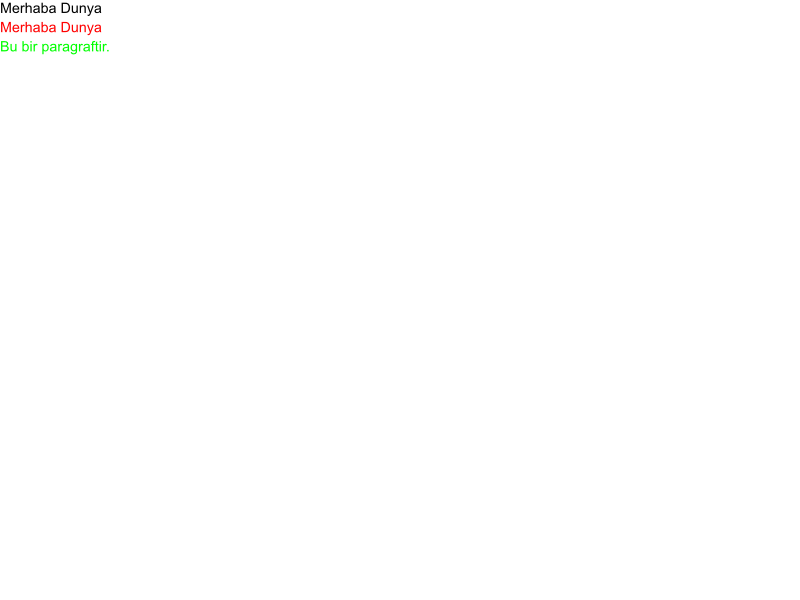
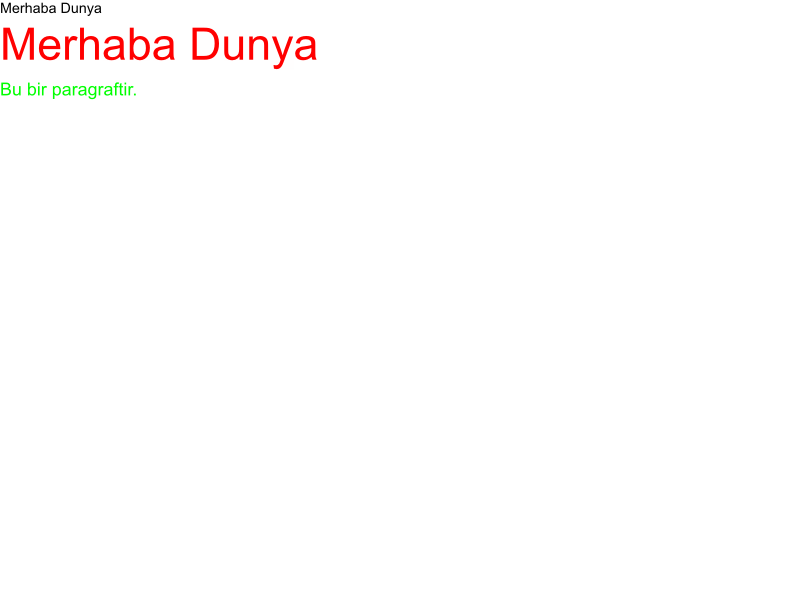
font size added

Changed region(s): [[0.0, 0.03, 0.4062, 0.18]]

diff --git a/src/layout/structs.rs b/src/layout/structs.rs
@@ -1,4 +1,4 @@
-use crate::style::structs::StyledNode;
+use crate::{css::enums::Unit, style::structs::StyledNode};
 use super::enums::LayoutBoxType;
 use crate::css::enums::Value; // Value enum'unu kullanmak için eklendi
 
@@ -122,13 +122,13 @@ impl<'a> LayoutBox<'a> {
     }
 
     fn layout_block(&mut self, containing_block: Dimensions) {
-        self.dimensions.content.width = match self.get_property("width") {
+        let content_width = match self.get_property("width") {
             Some(Value::Length(w, _)) => *w,
             _ => {
                 if let Some(styled_node) = self.styled_node {
-                    if let crate::html::enums::NodeType::Text(ref text) = styled_node.node.node_type {
+                    if let crate::html::enums::NodeType::Text(_) = styled_node.node.node_type {
                         let font_size = self.get_float_value("font-size", 16.0);
-                        text.len() as f32 * (font_size * 0.6)
+                        font_size * 0.6 * styled_node.node.to_string().len() as f32 // Metin genişliği tahmini için
                     } else {
                         containing_block.content.width - self.dimensions.margin.left - self.dimensions.margin.right - self.dimensions.border.left - self.dimensions.border.right - self.dimensions.padding.left - self.dimensions.padding.right
                     }
@@ -137,6 +137,7 @@ impl<'a> LayoutBox<'a> {
                 }
             }
         };
+        self.dimensions.content.width = content_width;
 
         self.dimensions.margin = self.calculate_edge_sizes("margin", 0.0);
         self.dimensions.padding = self.calculate_edge_sizes("padding", 0.0);
@@ -146,13 +147,9 @@ impl<'a> LayoutBox<'a> {
         self.dimensions.content.y = containing_block.content.y + self.dimensions.margin.top + self.dimensions.border.top + self.dimensions.padding.top;
 
         if let Some(styled_node) = self.styled_node {
-            if let crate::html::enums::NodeType::Text(ref text) = styled_node.node.node_type {
+            if let crate::html::enums::NodeType::Text(_) = styled_node.node.node_type {
                 let font_size = self.get_float_value("font-size", 16.0);
-                let line_height = self.get_float_value("line-height", font_size * 1.2);
-                self.dimensions.content.height = (text.len() as f32 / (self.dimensions.content.width / (font_size * 0.6))).max(1.0) * line_height;
-                if self.dimensions.content.height == 0.0 && !text.is_empty() {
-                    self.dimensions.content.height = line_height;
-                }
+                self.dimensions.content.height = font_size * 1.2; // Sabit satır yüksekliği
             }
         }
 
@@ -174,12 +171,36 @@ impl<'a> LayoutBox<'a> {
                                 x: self.dimensions.content.x,
                                 y: current_y,
                                 width: self.dimensions.content.width,
-                                height: 0.0,
+                                height: 0.0, // `LineBox`'ın kendi içeriğine göre yüksekliğini belirlemesine izin ver
                             },
                             ..Default::default()
                         };
                         line_box.layout(line_containing_block);
-                        current_y += line_box.dimensions.margin_box().height;
+
+                        // LineBox için font-size'a dayalı doğru yükseklik hesapla
+                        let line_box_height = if !line_box.children.is_empty() {
+                            let mut max_line_height: f32 = 0.0;
+                            for child in &line_box.children {
+                                let child_line_height = if let Some(styled_node) = child.styled_node {
+                                    if let crate::html::enums::NodeType::Text(_) = styled_node.node.node_type {
+                                        // Metin düğümü için font-size'a dayalı line-height hesapla
+                                        let font_size = child.get_float_value("font-size", 16.0);
+                                        font_size * 1.2 // Sabit line-height çarpanı
+                                    } else {
+                                        // Inline element için kendi hesaplanmış yüksekliğini kullan
+                                        child.dimensions.margin_box().height
+                                    }
+                                } else {
+                                    child.dimensions.margin_box().height
+                                };
+                                max_line_height = max_line_height.max(child_line_height);
+                            }
+                            max_line_height
+                        } else {
+                            line_box.dimensions.margin_box().height
+                        };
+
+                        current_y += line_box_height;
                         new_children.push(line_box); // Oluşturulan satır kutusunu yeni vektöre ekle
                     }
 
@@ -217,12 +238,40 @@ impl<'a> LayoutBox<'a> {
                     x: self.dimensions.content.x,
                     y: current_y,
                     width: self.dimensions.content.width,
-                    height: 0.0,
+                    height: 0.0, // `LineBox`'ın kendi içeriğine göre yüksekliğini belirlemesine izin ver
                 },
                 ..Default::default()
             };
             line_box.layout(line_containing_block);
-            current_y += line_box.dimensions.margin_box().height;
+
+            // LineBox için font-size'a dayalı doğru yükseklik hesapla
+            let line_box_height = if !line_box.children.is_empty() {
+                let mut max_line_height: f32 = 0.0;
+                for child in &line_box.children {
+                    let child_line_height = if let Some(styled_node) = child.styled_node {
+                        if let crate::html::enums::NodeType::Text(_) = styled_node.node.node_type {
+                            // Metin düğümü için font-size'a dayalı line-height hesapla
+                            let font_size = styled_node.computed_values.get_key_value("font-size").unwrap_or((&"font-size".to_string(), &Value::Length(16.0, Unit::Px))).1;
+                            let r = match font_size {
+                                Value::Length(f, _) => f * 1.2,
+                                _ => 0.0
+                            };
+                            r
+                        } else {
+                            // Inline element için kendi hesaplanmış yüksekliğini kullan
+                            child.dimensions.margin_box().height
+                        }
+                    } else {
+                        child.dimensions.margin_box().height
+                    };
+                    max_line_height = max_line_height.max(child_line_height);
+                }
+                max_line_height
+            } else {
+                line_box.dimensions.margin_box().height
+            };
+
+            current_y += line_box_height;
             new_children.push(line_box); // Oluşturulan satır kutusunu yeni vektöre ekle
         }
 
@@ -249,13 +298,13 @@ impl<'a> LayoutBox<'a> {
         self.dimensions.content.x = containing_block.content.x + self.dimensions.margin.left + self.dimensions.border.left + self.dimensions.padding.left;
         self.dimensions.content.y = containing_block.content.y + self.dimensions.margin.top + self.dimensions.border.top + self.dimensions.padding.top;
 
-        self.dimensions.content.width = match self.get_property("width") {
+        let content_width = match self.get_property("width") {
             Some(Value::Length(w, _)) => *w,
             _ => {
                 if let Some(styled_node) = self.styled_node {
-                    if let crate::html::enums::NodeType::Text(ref text) = styled_node.node.node_type {
+                    if let crate::html::enums::NodeType::Text(_) = styled_node.node.node_type {
                         let font_size = self.get_float_value("font-size", 16.0);
-                        text.len() as f32 * (font_size * 0.6)
+                        font_size * 0.6 * styled_node.node.to_string().len() as f32 // Metin genişliği tahmini için
                     } else {
                         0.0
                     }
@@ -264,15 +313,15 @@ impl<'a> LayoutBox<'a> {
                 }
             }
         };
+        self.dimensions.content.width = content_width;
 
-        self.dimensions.content.height = match self.get_property("height") {
+        let content_height = match self.get_property("height") {
             Some(Value::Length(h, _)) => *h,
             _ => {
                 if let Some(styled_node) = self.styled_node {
-                    if let crate::html::enums::NodeType::Text(ref text) = styled_node.node.node_type {
+                    if let crate::html::enums::NodeType::Text(_) = styled_node.node.node_type {
                         let font_size = self.get_float_value("font-size", 16.0);
-                        let line_height = self.get_float_value("line-height", font_size * 1.2);
-                        (text.len() as f32 / (self.dimensions.content.width / (font_size * 0.6))).max(1.0) * line_height
+                        font_size * 1.2 // Sabit satır yüksekliği
                     } else {
                         self.get_float_value("font-size", 16.0) * 1.2
                     }
@@ -281,6 +330,32 @@ impl<'a> LayoutBox<'a> {
                 }
             }
         };
+        self.dimensions.content.height = content_height;
+
+        // Inline elemanların çocuklarını da düzenle
+        let mut current_child_x = self.dimensions.content.x;
+        let mut max_child_height: f32 = 0.0;
+
+        for child in &mut self.children {
+            let child_containing_block = Dimensions {
+                content: Rect {
+                    x: current_child_x,
+                    y: self.dimensions.content.y,
+                    width: self.dimensions.content.width - (current_child_x - self.dimensions.content.x),
+                    height: self.dimensions.content.height,
+                },
+                ..Default::default()
+            };
+            child.layout(child_containing_block);
+            current_child_x += child.dimensions.margin_box().width;
+            max_child_height = max_child_height.max(child.dimensions.margin_box().height);
+        }
+        
+        // Çocukların toplam genişliğini ve en yüksek yüksekliğini ayarla
+        if !self.children.is_empty() {
+            self.dimensions.content.width = current_child_x - self.dimensions.content.x;
+            self.dimensions.content.height = max_child_height;
+        }
     }
 
     // Satır kutularını düzenler (Inline Formatting Context)
@@ -294,23 +369,40 @@ impl<'a> LayoutBox<'a> {
 
         for child in &mut self.children {
             // Çocuğun kapsayan bloğunu, satır kutusunun mevcut konumuyla oluştur
+
             let child_containing_block = Dimensions {
                 content: Rect {
                     x: current_x,
                     y: self.dimensions.content.y,
                     width: containing_block.content.width - (current_x - self.dimensions.content.x),
-                    height: containing_block.content.height,
+                    height: containing_block.content.height // Çocuk elementlerin ana kapsayan bloğa göre boyutlanmasına izin ver
                 },
                 ..Default::default()
             };
-
             child.layout(child_containing_block);
 
             // Çocuğun boyutlarını kullanarak satır kutusunun genişliğini ve yüksekliğini güncelle
             current_x += child.dimensions.margin_box().width;
-            max_height = max_height.max(child.dimensions.margin_box().height);
+            
+            // Çocuk için font-size'a dayalı doğru line-height hesapla
+            let child_line_height = if let Some(styled_node) = child.styled_node {
+                if let crate::html::enums::NodeType::Text(_) = styled_node.node.node_type {
+                    // Metin düğümü için font-size'a dayalı line-height hesapla
+                    let l = styled_node.computed_values.get_key_value("font-size").unwrap_or((&"font-size".to_string(), &Value::Length(16.0, Unit::Px))).1;
+                    let r = match l {
+                        Value::Length(f, _) => f * 1.2,
+                        _ => 0.0
+                    };
+                    r
+                } else {
+                    // Inline element için kendi hesaplanmış yüksekliğini kullan
+                    child.dimensions.margin_box().height
+                }
+            } else {
+                child.dimensions.margin_box().height
+            };
+            max_height = max_height.max(child_line_height);
         }
-
         self.dimensions.content.width = current_x - self.dimensions.content.x;
         self.dimensions.content.height = max_height;
     }

diff --git a/src/main.rs b/src/main.rs
@@ -23,7 +23,7 @@ fn main() {
                                     <p class=\"class\">Bu bir paragraftir.</p>
                                 </body>
                             </html>".to_string();
-    let css_input = "body { font-family: Arial, sans-serif; color:rgba(0, 255, 0, 1); } h1 { color:rgba(255, 0, 0, 1); }".to_string(); // h1 için padding, border, margin eklendi
+    let css_input = "body { font-family: Arial, sans-serif; color:rgba(0, 255, 0, 1); } h1 { color:rgba(255, 0, 0, 1); font-size: 50px; } p { font-size: 20px; }".to_string(); // h1 için padding, border, margin eklendi
     let dom_tree = HtmlParser::new(html_input).parse();
     let css_tree = CssParser::new(css_input).parse();
 
@@ -38,7 +38,6 @@ fn main() {
         ..Default::default()
     };
     layout_tree.layout(initial_containing_block.clone());
-
     let display_list = build_display_list(&layout_tree);
     // println!("{:#?}", display_list);
 
@@ -63,7 +62,7 @@ fn build_layout_tree<'a>(styled_node: &'a StyledNode<'a>) -> LayoutBox<'a> {
         NodeType::Element(_) => { // `ref data` yerine `_` kullanıldı
             match display {
                 crate::css::enums::Display::Block => LayoutBoxType::BlockNode,
-                crate::css::enums::Display::Inline => LayoutBoxType::InlineNode,
+                crate::css::enums::Display::Inline => LayoutBoxType::InlineNode, // H1'in üst üste binmesini önlemek için geçici olarak BlockNode yapıldı
                 crate::css::enums::Display::None => LayoutBoxType::BlockNode,
             }
         },

diff --git a/src/style/structs.rs b/src/style/structs.rs
@@ -2,6 +2,20 @@ use std::collections::HashMap;
 use crate::css::enums::Value;
 use crate::html::structs::{Node, ElementData};
 use crate::html::enums::NodeType;
+use lazy_static::lazy_static; // lazy_static import'u eklendi
+use crate::css::enums::Display; // Display enum'u için import eklendi
+
+lazy_static! {
+    static ref DEFAULT_DISPLAY_STYLES: HashMap<String, Display> = {
+        let mut m = HashMap::new();
+        m.insert("div".to_string(), Display::Block);
+        m.insert("p".to_string(), Display::Block);
+        m.insert("h1".to_string(), Display::Block);
+        m.insert("span".to_string(), Display::Inline);
+        // Diğer varsayılan display değerlerini buraya ekleyebilirsiniz
+        m
+    };
+}
 
 #[derive(Debug, Clone)] // Clone trait'i eklendi
 pub struct StyledNode<'a> {
@@ -96,6 +110,13 @@ fn is_inheritable_property(property_name: &str) -> bool {
 fn calculate_style_for_element(elem: &ElementData, stylesheet: &crate::css::structs::StyleSheet) -> PropertyMap {
     let mut properties = HashMap::new();
     let mut rules = matching_rules(elem, stylesheet);
+
+    // Varsayılan display stilini ekle, eğer CSS tarafından ezilmediyse
+    if !properties.contains_key("display") {
+        if let Some(default_display) = DEFAULT_DISPLAY_STYLES.get(&elem.tag_name.to_string()) {
+            properties.insert("display".to_string(), Value::Display(default_display.clone()));
+        }
+    }
 
     // Özgüllüğe göre sırala (en özgül sona gelsin)
     rules.sort_by_key(|rule| rule.selectors[0].specificity());

diff --git a/src/html/structs.rs b/src/html/structs.rs
@@ -16,3 +16,12 @@ pub struct Node {
 
 impl Node {
 }
+
+impl std::fmt::Display for Node {
+    fn fmt(&self, f: &mut std::fmt::Formatter) -> std::fmt::Result {
+        match self.node_type {
+            NodeType::Element(ref element_data) => write!(f, "<{:?}>", element_data.tag_name),
+            NodeType::Text(ref text) => write!(f, "{}", text),
+        }
+    }
+}

diff --git a/src/layout/enums.rs b/src/layout/enums.rs
@@ -1,6 +1,7 @@
 #[derive(Debug)]
 pub enum LayoutBoxType {
     BlockNode,
+    #[allow(dead_code)]
     InlineNode,
     AnonymousBlock,
     LineBox,
